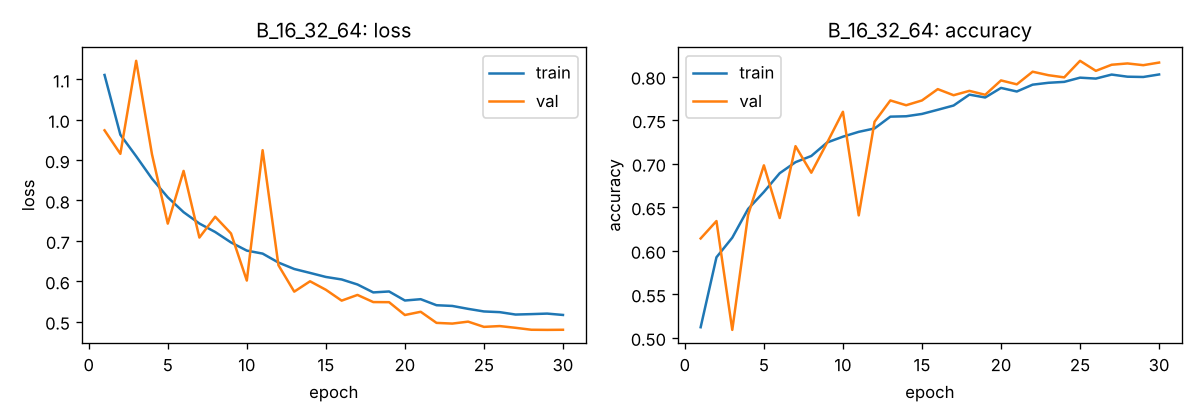
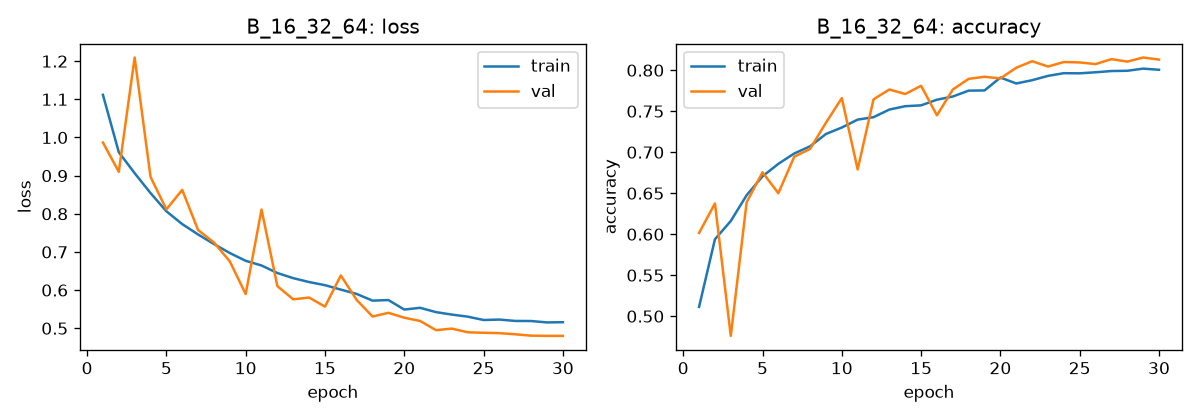
Tuan 1: ket qua tren laptop

diff --git a/model/results.md b/model/results.md
@@ -4,32 +4,32 @@
 
 | Kiến trúc | Tham số | MAC/ảnh | KB int8 | Epoch | Val acc | Test acc | Thời gian |
 |---|---|---|---|---|---|---|---|
-| A_8_16_32 | 8,084 | 813,056 | 7.9 | 30 | 74.50% | 73.88% | 2.2 phút |
-| B_16_32_64 | 27,684 | 2,805,760 | 27.0 | 30 | 81.80% | 79.67% | 3.9 phút |
-| C_32_64_128 | 101,444 | 10,330,112 | 99.1 | 30 | 85.40% | 83.27% | 7.2 phút |
-| D_16_32_64_noBN | 27,684 | 2,805,760 | 27.0 | 30 | 74.85% | 73.90% | 3.0 phút |
+| A_8_16_32 | 8,084 | 813,056 | 7.9 | 30 | 74.55% | 73.47% | 2.7 phút |
+| B_16_32_64 | 27,684 | 2,805,760 | 27.0 | 30 | 81.55% | 80.23% | 4.3 phút |
+| C_32_64_128 | 101,444 | 10,330,112 | 99.1 | 30 | 86.25% | 82.83% | 8.8 phút |
+| D_16_32_64_noBN | 27,684 | 2,805,760 | 27.0 | 30 | 75.10% | 73.88% | 3.5 phút |
 
 ## Đánh giá chi tiết (float)
 
-Kiến trúc **B_16_32_64**, accuracy test **79.67%**.
+Kiến trúc **B_16_32_64**, accuracy test **80.23%**.
 
 | Lớp | Accuracy |
 |---|---|
-| cat | 75.5% |
-| dog | 72.5% |
-| deer | 87.4% |
-| horse | 83.3% |
+| cat | 71.1% |
+| dog | 78.0% |
+| deer | 86.8% |
+| horse | 85.0% |
 
 Ma trận nhầm lẫn (hàng = nhãn thật, cột = dự đoán):
 
 | | cat | dog | deer | horse |
 |---|---|---|---|---|
-| **cat** | 755 | 130 | 85 | 30 |
-| **dog** | 175 | 725 | 65 | 35 |
-| **deer** | 70 | 25 | 874 | 31 |
-| **horse** | 53 | 44 | 70 | 833 |
+| **cat** | 711 | 177 | 78 | 34 |
+| **dog** | 141 | 780 | 45 | 34 |
+| **deer** | 53 | 38 | 868 | 41 |
+| **horse** | 48 | 52 | 50 | 850 |
 
-Nhầm nhiều nhất: **dog → cat** (175 ảnh).
+Nhầm nhiều nhất: **cat → dog** (177 ảnh).
 
 Hình: `figures/confusion_B_16_32_64.png`, `figures/errors_B_16_32_64.png`.
 
